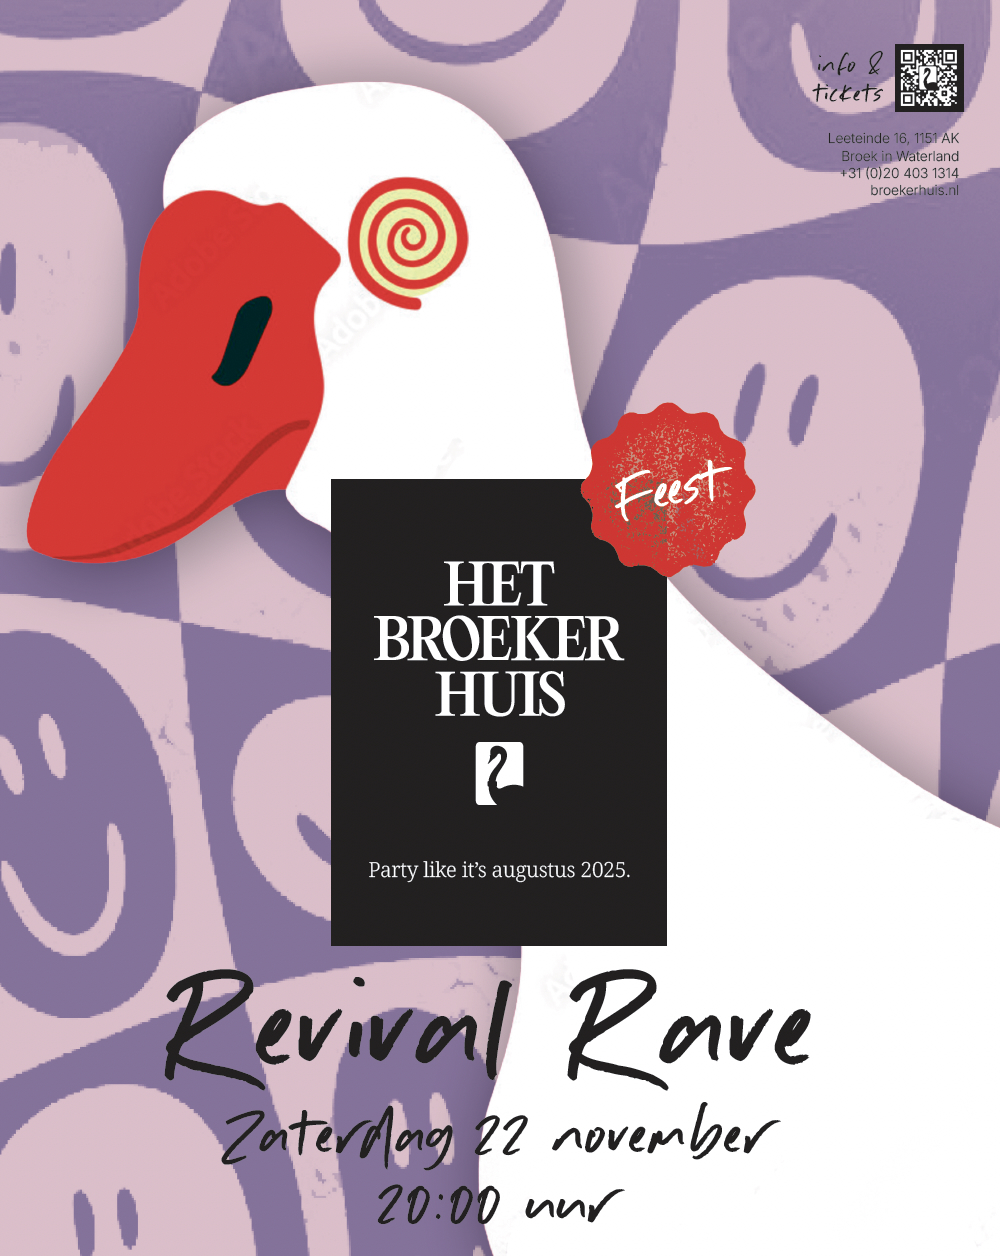
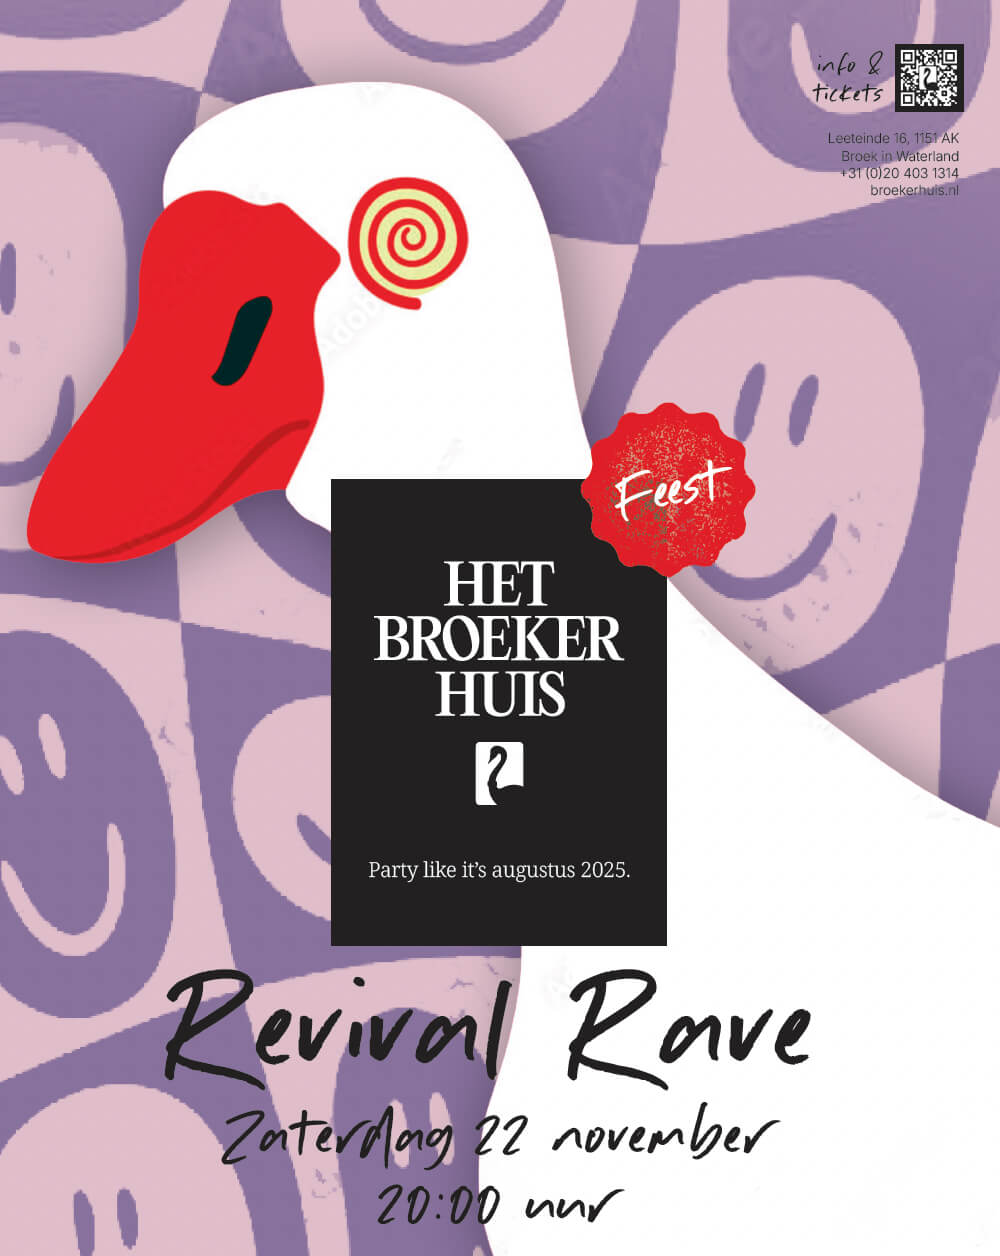
2 changes by Nuxt Studio

diff --git a/content/dorpsagenda.md b/content/dorpsagenda.md
@@ -35,7 +35,7 @@ Bier voor 3 piek, stampende beats van 4 Broeker DJ’s & een heel dorp op de dan
 ###
 
 #image
-![eend uit zn plaat](/FeestweekRevivalRave.jpg){format="webp" height="1855" loading="lazy" placeholder="" quality="80" sizes="sm:412" width="1485"}
+![eend-uit-zn-plaat](/FeestweekRevivalRave.jpg){format="webp" height="1855" loading="lazy" placeholder="" quality="80" sizes="sm:412" width="1485"}
 
 #footer
   :::cta-button{arrow}
